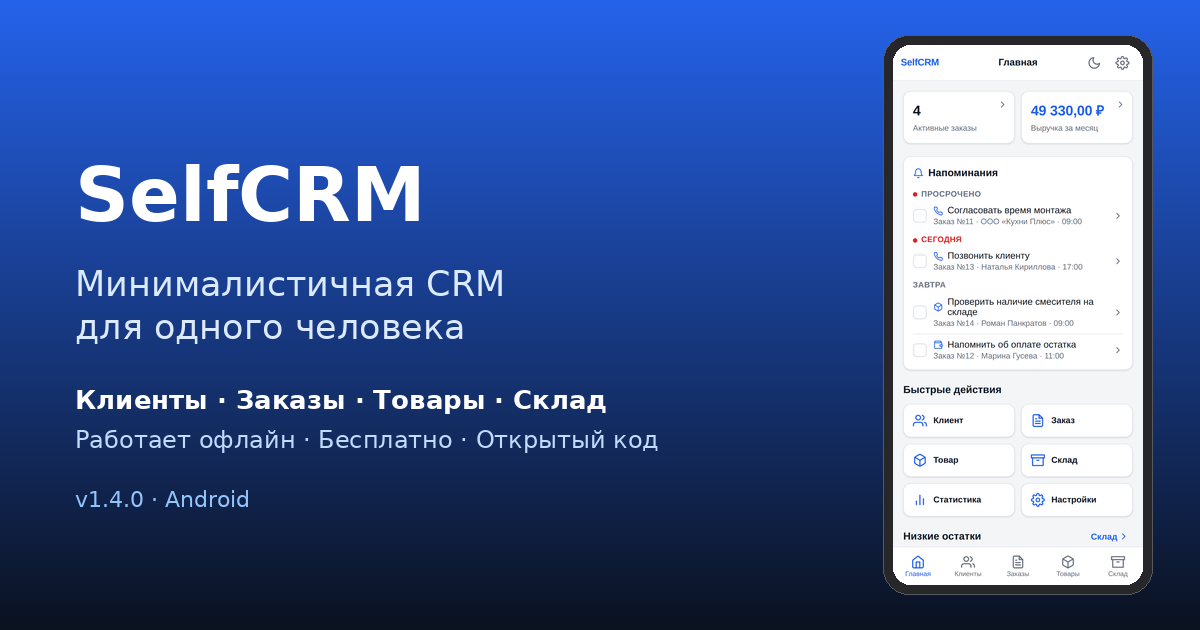
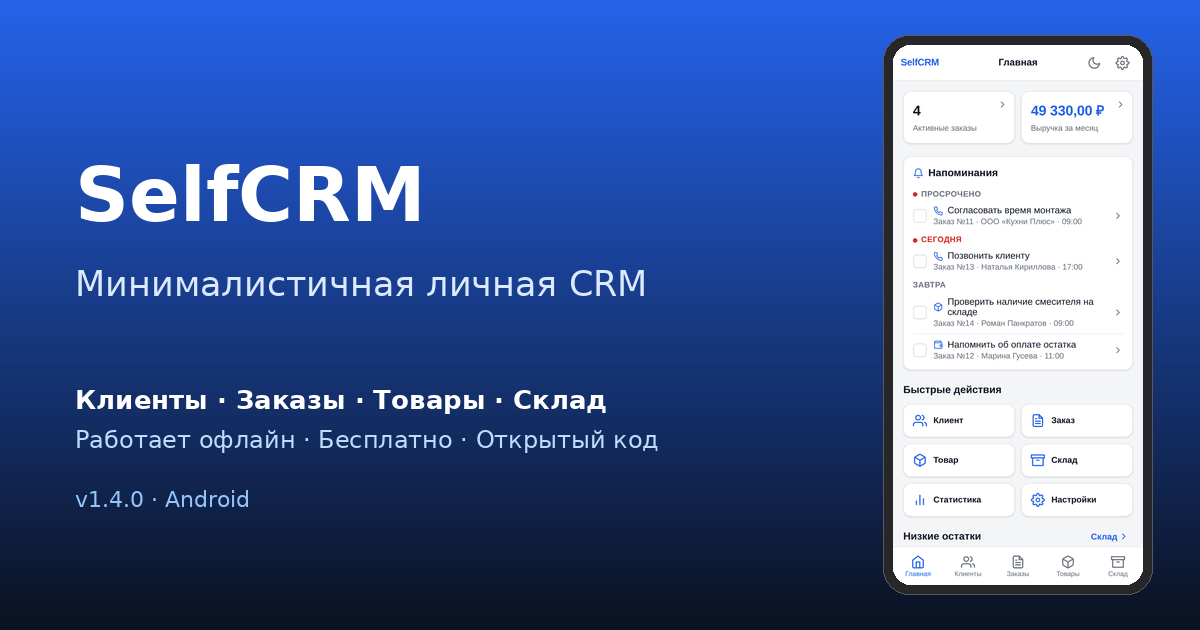
feat(crm): личная CRM вместо «CRM для одного человека»
Настройки: «Личная CRM» вместо «Один пользователь». README и ARCHITECTURE — то же позиционирование. В release-assets/v1.4.0/cover.png подпись обложки: «Минималистичная личная CRM».

Changed region(s): [[0.3392, 0.4222, 0.555, 0.4825], [0.0617, 0.5127, 0.4008, 0.5429]]

diff --git a/src/screens/Settings.tsx b/src/screens/Settings.tsx
@@ -455,7 +455,7 @@ export function Settings() {
       <Card>
         <div className="settings-row-title">SelfCRM</div>
         <div className="settings-row-desc" style={{ marginTop: 4 }}>
-          Версия {APP_VERSION} · Один пользователь · Данные хранятся локально на устройстве
+          Версия {APP_VERSION} · Личная CRM · Данные хранятся локально на устройстве
         </div>
       </Card>
 

diff --git a/README.md b/README.md
@@ -1,8 +1,7 @@
 # SelfCRM
 
-**SelfCRM** — простая мобильная CRM для одного человека: частного мастера, небольшой
-бригады или микробизнеса. Все данные хранятся на вашем устройстве, интернет для работы
-не обязателен.
+**SelfCRM** — простая мобильная **личная CRM**: клиенты, заказы с напоминаниями, товары и
+склад. Все данные хранятся на вашем устройстве, интернет для работы не обязателен.
 
 https://doc9830.github.io/SelfCRMlanding/
 

diff --git a/ARCHITECTURE.md b/ARCHITECTURE.md
@@ -4,7 +4,7 @@
 
 1. **Простота и работоспособность важнее «правильности ради правильности».** Никаких лишних
    зависимостей и абстракций.
-2. **Один пользователь, локальные данные.** Нет бэкенда, нет авторизации.
+2. **Личная CRM, локальные данные.** Нет бэкенда, нет авторизации.
 3. **Готовность к Android.** Приложение — обычное статичное SPA, которое без изменений работает
    внутри Capacitor WebView.
 
